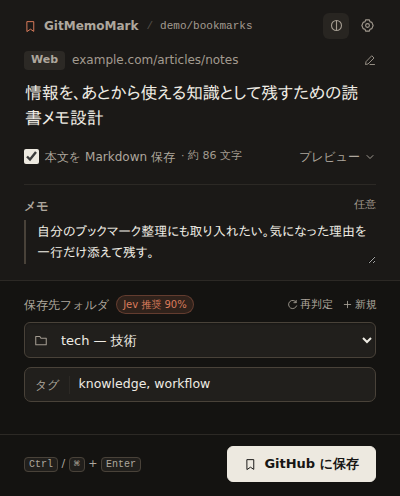
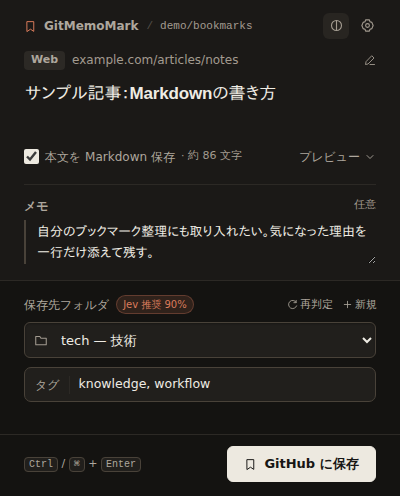
Rewrite README and clarify sample article screenshots

Changed region(s): [[0.06, 0.1512, 0.9, 0.2722]]

diff --git a/README.md b/README.md
@@ -1,65 +1,128 @@
 # GitMemoMark
 
-X のポストや Web ページを、**自分の GitHub リポジトリに Markdown として保存**する Chrome 拡張機能（Manifest V3）です。任意で [TypeSafe Jev](https://typesafe.ai/) によるフォルダ仕分けを使えます。
+X（旧 Twitter）のポストや Web ページを、**自分の GitHub リポジトリに Markdown として整理・保存**するデスクトップ Chrome 拡張機能（Manifest V3）です。フォルダ分け・メモ・タグ・一覧ファイル（`INDEX.md`）の更新に対応し、任意で [TypeSafe Jev](https://typesafe.ai/) によるフォルダ自動仕分けも利用できます。
 
-**Developer preview / 開発プレビュー。** Chrome ウェブストア公開版ではありません。データのバックアップを取り、まずテスト用の非公開リポジトリで試してください。認証済み X と実際の認証付き API 書き込みは E2E テスト未実施です。ライト／ダーク／システム追従に対応しています。開発プレビューのため表示や設定が変わる可能性があります。
+[保存画面](#保存画面) · [どう保存されるか](#どう保存されるか) · [使い方](#使い方) · [導入と初期設定](#導入と初期設定) · [フォルダ管理と自動仕分け](#フォルダ管理と自動仕分け) · [プライバシーとセキュリティ](#プライバシーとセキュリティ) · [既知の制限と検証状況](#既知の制限と検証状況) · [開発とライセンス](#開発とライセンス)
+
+> [!NOTE]
+> **開発プレビュー（v0.2.0 / Chrome ウェブストア未公開）**
+>
+> リポジトリを取得し、Chrome に「パッケージ化されていない拡張機能」として読み込んで使います（実行に Node.js やビルド作業は不要です）。認証済み X 実アカウントでの操作や、実 API への書き込みを通した E2E テストは未実施です。データのバックアップを取り、まずは**テスト用の非公開（Private）リポジトリ**でお試しください。仕様や画面は今後変更される可能性があります。
 
 ## 保存画面
 
-**Quiet Editorial（v0.2.0）**：紙色のライトテーマと墨色のダークテーマ。記事タイトルとメモを主役にし、保存先・タグを下段にまとめた保存画面です。本文プレビュー、フォルダ、メモ、タグを確認して保存できます。
+**Quiet Editorial（v0.2.0）** では、紙色のライトテーマと墨色のダークテーマを採用しています。記事タイトルと自分のメモを上段に大きく配置し、保存先フォルダやタグの整理を下段にまとめました。
 
-以下は実際の拡張画面です（記事・設定・仕分け結果はテスト用サンプル）。
+以下は実際の拡張機能の保存画面です（表示されている記事・設定・仕分け結果はテスト用のサンプルデータです）。
 
-| ライト | ダーク |
+| ライトテーマ | ダークテーマ |
+| :---: | :---: |
+| ![ライトテーマの保存画面](screenshots/release-popup-light.png) | ![ダークテーマの保存画面](screenshots/release-popup-dark.png) |
+
+- **テーマ切替**：ライト／ダーク／システム追従に対応し、設定画面または保存画面右上のボタンから切り替えられます。
+- **保存前の確認と操作**：複数行タイトルの編集、本文 Markdown 保存の ON/OFF とプレビュー確認、フォルダの新規作成がその場で行えます。保存ボタンは下部に固定され、`Ctrl+Enter`（macOS は `⌘+Enter`）でも保存できます。
+
+## どう保存されるか
+
+保存を実行すると、指定した GitHub リポジトリへ **1 件につき 1 つの Markdown ファイル**をコミットします。既定では一覧ファイル `INDEX.md` も同じコミットで更新されます。
+
+```text
+your-bookmarks-repo/
+├── INDEX.md
+├── tech/
+│   ├── 2026-11-01_example-com_サンプル記事-markdownの書き方_8f3a1c9e2b4d.md
+│   └── x_example_1850000000000000000.md
+└── _unsorted/
+```
+
+保存される `.md` ファイルには、検索や再利用がしやすいよう YAML front matter と本文が記録されます（保存画面スクリーンショットの例）。
+
+```markdown
+---
+title: "サンプル記事：Markdownの書き方"
+url: "https://example.com/articles/notes"
+source: web
+site: "example.com"
+folder: "tech"
+tags: ["knowledge", "workflow"]
+classified_by: "jev (90%)"
+saved_at: "2026-11-01T08:00:00+09:00"
+---
+
+# サンプル記事：Markdownの書き方
+
+<https://example.com/articles/notes>
+
+## メモ
+
+自分のブックマーク整理にも取り入れたい。気になった理由を一行だけ添えて残す。
+
+## 本文
+
+（抽出した記事本文の Markdown）
+```
+
+### 保存形式とデータ保護の仕様
+
+- **完全なオフライン保存ではありません**：Web ページの本文は同梱の Readability と Turndown で Markdown に変換しますが（本文保存は OFF にもできます）、画像や動画はバイナリを保存せず**主に元サイトの URL として記録**します。元ページ側の削除や構造によっては再現できません。
+- **同一パスへの上書きは行いません**：保存先パスにすでにファイルが存在する場合、**同じ URL であっても上書きせず保存を中止**します。以前に書いたメモ・タグや GitHub 上で手作業した追記を保護するためです。既存パスに別 URL や識別不能なファイルがある場合、既存ツリーや Blob を読み取れない場合も同様に中止します。追記・更新したいときは GitHub 上で編集するか、別のフォルダに保存してください。
+- **ファイル名と重複の扱い**：
+  - **Web ページ**：`日付_ドメイン_タイトル_URLのSHA-1先頭12桁.md` で保存します（ハッシュはファイル名衝突の回避用であり、暗号化ではありません）。日付・タイトル・フォルダが変わると別パスになるため、別ファイルとして保存されることがあります（リポジトリ全体での URL 重複排除ではありません）。
+  - **X ポスト**：`x_<handle>_<id>.md` で保存し、同じフォルダ内では日をまたいでも同じパスになります。なお X 画面からの即時保存では、保存成功後 10 分間は同一ポストの再保存をスキップする場合があります。
+- **`INDEX.md` の手動追記を保持**：一覧の更新時は拡張機能が付与したマーカー付きの行だけを更新し、ユーザーが自分で書き足した行は残します（旧バージョンのマーカーなし行や旧ファイル名は自動移行しないため、初回再保存で行が重複する場合があります）。
+
+## 使い方
+
+普段の使い方に合わせて、設定画面で **2 つの保存モード**を切り替えられます。
+
+- **毎回フォルダを選ぶ（既定）**：保存画面を開き、タイトル・本文プレビュー・メモ・フォルダ・タグを確認してから保存します。
+- **画面を出さずにすぐ保存**：ダイアログを開かずワンクリックで保存します。保存先は「Jev で自動仕分け」または「未仕分けフォルダ（既定 `_unsorted`）にまとめて入れる」から選べます。
+
+### 保存の呼び出し方
+
+| 操作 | 動作 |
 | --- | --- |
-| ![ライトの保存画面](screenshots/release-popup-light.png) | ![ダークの保存画面](screenshots/release-popup-dark.png) |
+| **ツールバーの拡張機能アイコン** | 現在のページを保存（設定モードに従い「保存画面」または「すぐ保存」） |
+| **X ポストの保存ボタン** | 各ポストに追加されるボタンで保存。**`Shift` + クリック**で設定に関わらず即時保存（ボタン表示は OFF 可） |
+| **X のブックマーク操作** | 設定で連動を ON にした場合、X でブックマークしたポストを「すぐ保存」のルールで GitHub にも保存（既定 OFF、ログイン時のみ） |
+| **右クリックメニュー** | ページ・選択テキスト・リンク・画像を保存。「フォルダを選ぶ」は常に保存画面、「すぐ保存」は常に即時保存 |
+| **`Alt+Shift+S`** | 現在のページをダイアログなしで即時保存（`chrome://extensions/shortcuts` で変更可） |
 
-設定画面または保存画面右上からテーマを切り替えられます。保存ボタンは下部に固定され、長い本文やエラーは枠内でスクロールします。
+## 導入と初期設定
 
-## インストール
+### 1. Chrome への読み込み（ビルド不要）
 
-Git と現在のデスクトップ版 Chrome が必要です。拡張機能の実行に Node.js やビルドは不要です。
+現在のデスクトップ版 Google Chrome が必要です。拡張機能の実行に Node.js、`npm install`、ビルド手順は不要です。
 
 ```sh
 git clone https://github.com/Aero123421/gitmemomark.git
 cd gitmemomark
 ```
 
-1. Chrome で `chrome://extensions` を開き、デベロッパーモードを ON。
-2. 「パッケージ化されていない拡張機能を読み込む」でクローンしたフォルダ（[manifest.json](manifest.json) がある場所）を選択。
-3. 拡張機能の設定画面で GitHub を設定。更新時は `git pull` 後、拡張機能を再読み込みし、X のタブも再読み込みしてください。
+1. Chrome のアドレスバーで `chrome://extensions` を開き、右上の **「デベロッパーモード」** を ON にします。
+2. **「パッケージ化されていない拡張機能を読み込む」** をクリックし、クローンしたフォルダ（[manifest.json](manifest.json) があるルートフォルダ）を選択します。
+3. 初回導入時は設定画面が開きます。
 
-## GitHub の設定
+更新するときは `git pull` を実行したあと、`chrome://extensions` で GitMemoMark の「再読み込み」を押し、開いている X のタブも再読み込みしてください。
 
-1. 保存先のリポジトリを作成（非公開を推奨）。このソースコードのリポジトリと別で構いません。
-2. [Fine-grained personal access token](https://github.com/settings/personal-access-tokens/new) を作成。
-   - Repository access: **Only select repositories** → 保存先のみ。
-   - Repository permissions: **Contents → Read and write**。
-   - 有効期限を設定し、不要になったら失効させてください。
-3. オーナー、リポジトリ、ブランチ（既定 `main`）、トークン、必要なら保存先のベースパスを入力。「接続テスト」後に「設定を保存」。
+### 2. GitHub リポジトリとトークンの設定
 
-接続テストは読み取り確認で、実際の書き込み成功を保証しません。既存リポジトリではブランチが存在することを確認してください。空リポジトリの初回保存は複数コミットとなることがあり、途中失敗の可能性があります。
+1. **保存先リポジトリを作成する**：GitHub でブックマーク保存用のリポジトリを用意します（**非公開 / Private を推奨**。本拡張機能のソースリポジトリとは別で構いません）。既存リポジトリを使う場合は、保存先ブランチ（既定 `main`）が存在することを確認してください。
+2. **Fine-grained Personal Access Token を作成する**：[GitHub のトークン作成画面](https://github.com/settings/personal-access-tokens/new)を開き、保存先リポジトリだけに絞ったトークンを発行します。
+   - **Repository access**：`Only select repositories` → **保存先リポジトリのみ**を選択
+   - **Repository permissions**：`Contents` → **Read and write**（他の権限は不要）
+   - **Expiration**：有効期限を設定（使わなくなったら GitHub 側で失効させてください）
+3. **拡張機能の設定画面に入力する**：オーナー（ユーザー名 / Organization）、リポジトリ名、ブランチ（既定 `main`）、アクセストークン、必要に応じて保存先のルートフォルダ（空欄ならリポジトリ直下）を入力し、**「接続テスト」** 後に **「設定を保存」** を押します。
 
-## 使い方
+「接続テスト」はリポジトリ情報の読み取り確認であり、実際のブランチ書き込み成功までは保証しません。設定後にテスト保存を行い、コミットが作成されることを確認してください。
 
-| 操作 | 内容 |
-| --- | --- |
-| ツールバー | 現在のページを保存（フォルダ選択、または即時保存） |
-| X のポストに追加される保存ボタン | そのポストを保存。Shift+クリックで即時保存 |
-| X のブックマーク操作 | 設定で連動を有効にした場合、GitHub にも保存 |
-| 右クリック | ページ／選択テキスト／リンク／画像を保存 |
-| `Alt+Shift+S` | 現在のページを即時保存（Chrome 側で変更可） |
+## フォルダ管理と自動仕分け
 
-- **毎回フォルダを選ぶ**：タイトル・タグ・メモ、本文プレビューを確認して保存。
-- **すぐ保存**：ダイアログなし。Jev 自動仕分け、または未仕分けへの保存を選択。
-- 保存先の優先順位は **ドメインルール → Jev（有効時）→ 未仕分け**。
-- 右クリックの「フォルダを選ぶ」は常にダイアログ、「すぐ保存」は常に即時保存。
+保存先を自動で決める場合の優先順位は **`ドメインルール` → `Jev 自動仕分け（有効時）` → `未仕分けフォルダ`** です。
 
-通常のページは同梱の Readability と Turndown で本文を Markdown に変換します。本文保存は OFF にできます。画像は主に URL として保存され、画像・動画の完全なオフラインアーカイブではありません。
+### フォルダ候補とドメインルール
 
-### フォルダと Jev（任意）
-
-既存の GitHub フォルダに加え、設定の説明欄で候補を追加できます。
+リポジトリに既にあるフォルダは自動で候補に読み込まれます。まだ空のフォルダを候補に出したい場合や、Jev にフォルダの用途を伝えたい場合は、設定画面の「フォルダと説明」に 1 行ずつ記述します。
 
 ```text
 tech: プログラミング・技術記事
@@ -67,49 +130,53 @@ tech/ai: AI・機械学習
 reading: あとで読む
 ```
 
-ドメインルール例：`example.org = reading`（サブドメインにも適用）。Jev は既定で OFF。[TypeSafe console](https://console.typesafe.ai/keys) の API キーを入力して有効にします。候補は深さ 3 階層まで、説明を優先し最大 255 個。Choice の confidence がしきい値以上、かつ Noul が 0.5 以上の場合だけ採用します。失敗・低確信度時は未仕分けになります。
+特定のサイトを常に決まったフォルダへ入れたい場合は、「ドメインルール」に `example.org = reading` のように記述します（サブドメインにも適用され、Jev より優先されます）。
 
-**重要：Jev を有効にすると、保存ボタンを押す前のポップアップ表示時にも、タイトル・URL・サイト名・説明・選択テキスト・メモ・候補フォルダと説明が送られる場合があります。キャンセルしても送信は取り消せません。** 本文／X の本文は別の「本文も Jev に送信する」を ON にした場合のみ先頭 2,000 UTF-16 単位を追加送信します。除外ドメイン設定で送信を止められます。詳細は [PRIVACY.md](PRIVACY.md)。
+### TypeSafe Jev による自動仕分け（任意・既定 OFF）
 
-## 保存形式と上書き
+Jev 自動仕分けは**既定で OFF** です。利用する場合は [TypeSafe console](https://console.typesafe.ai/keys) で API キーを取得して設定画面に入力し、「Jev の自動仕分けを使う」を ON にします（API 利用料が別途かかります）。
 
-1 件につき Markdown 1 ファイル。URL、保存日時、フォルダ、タグなどを YAML front matter に記録し、通常は一覧の `INDEX.md` と同じコミットで保存します。
+候補フォルダは深さ 3 階層まで、説明のあるフォルダを優先して最大 255 個を使用します。Choice の `confidence` が設定しきい値以上、かつ適合度（Noul）が 0.5（50%）以上の場合のみ採用し、確信度が低い場合やエラー時は未仕分けフォルダに入ります。
 
-- Web のパスは日付・ドメイン・タイトル・URL の SHA-1 先頭 12 桁を含みます。ハッシュは暗号化ではありません。
-- **同一の保存パスにファイルが存在すると、URL が一致していても上書きせず保存を中止します。** 以前の本文・メモ・タグや手作業の追記を保護します。更新は GitHub 上で編集するか、別フォルダに保存してください。
-- 同じ URL でも日付・タイトル・フォルダが変わると別ファイルになることがあります。URL 全体での重複排除ではありません。
-- X は `x_<handle>_<id>.md` で日をまたいでも同一フォルダ内では同じパス。content script の即時保存は成功後 10 分間スキップする場合があります。
-- 既存パスの URL が違う、識別できない、既存 blob／ツリーを読み取れない場合は上書きを中止します。
-- 一覧は生成済みの所有マーカー付き行だけを更新し、ユーザーが追加した行を残します。旧版のマーカーなし行は初回再保存で重複する場合があります。旧ファイル名も自動移行しません。
+> [!IMPORTANT]
+> **Jev を有効にした場合のデータ送信タイミングと範囲**
+>
+> - **保存前のポップアップ表示時にも送信されます**：Jev が ON の場合、「すぐ保存」や「再判定」時だけでなく、**保存ボタンを押す前の「保存画面を開いた時点」でも自動判定のためデータが送信される場合があります**。保存をキャンセルして画面を閉じても、送信済みのリクエストは取り消せません。
+> - **既定で送信され得る項目**：タイトル、URL、サイト名、ページ説明文、選択テキスト、メモ、候補フォルダ名と説明。
+> - **本文の送信は別の明示設定（既定 OFF）**：「本文も Jev に送信する」を別途 ON にした場合のみ、Web 本文や X ポスト本文の先頭 2,000 UTF-16 単位を追加で送信します（OFF でも上記メタデータや選択テキストの送信は行われます）。
+> - **送信の抑止**：ドメインルールに一致した場合や、「Jev に送信しないドメイン」（サブドメインも対象）に設定したサイトでは Jev へ送信しません。詳細は [PRIVACY.md](PRIVACY.md) を参照してください。
 
-## プライバシー・権限
+## プライバシーとセキュリティ
 
-保存すると、抽出本文・URL・選択テキスト・メモ等が **GitHub にコミットされます**。公開リポジトリでは公開され、削除しても Git 履歴や複製に残り得ます。著作権、サイトの利用規約、機密情報に注意してください。
+- **公開リポジトリでは保存内容も公開されます**：保存すると、抽出本文・URL（クエリパラメータを含む）・選択テキスト・メモ・フォルダ名・コミットメッセージが **GitHub にコミットされます**。公開（Public）リポジトリでは誰でも閲覧でき、後からファイルを削除しても **Git の履歴やフォーク・複製に残り得ます**。非公開リポジトリの利用を推奨するとともに、著作権・サイトの利用規約・機密情報や認証後ページの扱いに注意してください。
+- **トークンのローカル保管は暗号化保管庫ではありません**：設定、GitHub トークン、Jev API キーはブラウザ内の `chrome.storage.local` に保存され、Chrome Sync による同期は使いません（X の content script にも秘密情報は渡しません）。ただし、OS アカウントや Chrome プロファイル、拡張機能のデバッグ機能にアクセスできる環境から秘密を保護する**暗号化保管庫（vault）ではありません**。プロファイルの共有やデバッグ出力の公開は避け、漏洩の恐れがある場合は直ちに各サービス側でトークンを失効・再発行してください（拡張機能を削除しただけでは失効しません）。
+- **独自の解析・テレメトリー送信なし**：現バージョンのソース確認では、独自のアクセス解析やテレメトリー送信は含まれていません。ただし、GitHub・TypeSafe Jev への API 通信や、閲覧サイト自身・Markdown ビューアの画像読み込み等による通信は各サービス側の処理に従います。
 
-トークンと API キーは `chrome.storage.local` に保存（Chrome Sync は使用しません）。OS／Chrome プロファイルへのアクセスから秘密を保護する暗号化保管庫ではありません。現在のソース確認では独自の解析・テレメトリー送信は見つかっていませんが、GitHub・Jev や閲覧サイト自身のデータ処理は別です。
+Chrome 権限の用途・送信データの詳細・削除手順は **[PRIVACY.md](PRIVACY.md)**、脆弱性の非公開報告窓口と注意事項は **[SECURITY.md](SECURITY.md)** を参照してください。
 
-権限の用途・送信内容・削除手順は [PRIVACY.md](PRIVACY.md)、脆弱性の報告は [SECURITY.md](SECURITY.md) を参照してください。
+## 既知の制限と検証状況
 
-## 既知の制限 / 検証範囲
+- **実環境での E2E テストは未実施**：認証済み X の実アカウント操作、および実際の認証情報を使った GitHub / TypeSafe Jev への書き込み E2E テストは未実施です。同梱のモックテストはこれらを代替しません。
+- **空リポジトリ初回保存の非原子性**：通常はブックマークと `INDEX.md` を 1 コミットで保存しますが、コミットがまだ存在しない空リポジトリへの初回保存のみ複数コミット（1 ファイルずつ書き込み）となるため、途中で失敗すると一部のみ作成された状態になる可能性があります。
+- **X の DOM 変更と取得範囲**：X の画面構造は変化するため、ポスト・引用・メディア等の取得が不完全になる場合や、タイムライン表示で長文が省略される場合があります。保存前にプレビューを確認してください。また、過去の X ブックマークを一括エクスポートする機能はありません。
+- **抽出できないページ構造**：PDF、`chrome://` 等のブラウザ内部ページ、Chrome ウェブストア、`iframe` 内の本文、ログイン壁のあるページ、閉じた Shadow DOM などは本文を取得できない場合があります。
+- **本文の上限と再現性**：Web 本文の上限は 1,000〜300,000 UTF-16 単位（既定 100,000）です。上限を超える場合は開いたコードフェンスを閉じ、省略注記を含めて上限内に切り詰めます。元ページの忠実な再現は保証しません。
+- **大規模ツリー・API 制限・競合**：GitHub 上のフォルダ数が非常に多い場合はフォルダ一覧が一部取得になることがあります。また API 制限、ネットワーク障害、端末をまたぐ同時保存の競合等で保存に失敗する場合があります。
 
-- 認証済み X の実アカウント操作、GitHub／Jev の実認証付き書き込みを通した E2E テストは未実施。モックテストはこれらを代替しません。
-- X の DOM は変化します。ポスト・引用・スレッドの取得が不完全な場合があります。保存前にプレビューを確認してください。
-- PDF、ブラウザー内部ページ、ウェブストア、iframe 内の本文、ログイン壁、閉じた Shadow DOM 等は取得できない場合があります。
-- 本文上限は 1,000〜300,000 UTF-16 単位。省略注記とコードフェンスの閉じ記号を含めて切り詰めます。忠実なページ再現は保証しません。
-- GitHub の大きなフォルダ一覧は一部取得になる場合があります。API 制限・競合・ネットワーク障害で保存に失敗する場合があります。端末をまたぐ同時保存まで保証しません。
+## 開発とライセンス
 
-## 開発・テスト
+### 開発・テスト
 
-Node.js **22 以上**（22／24 を CI 対象）で、依存パッケージのインストールは不要です。
+テストの実行には **Node.js 22 以上**が必要です。依存パッケージのインストールやビルド手順は不要です。
 
 ```sh
 npm test
 ```
 
-[test suite](tests/core.test.mjs) は `node:test` を使用。URL 衝突、入力検証、YAML／URL、UTF-16 と長いコードフェンスの切り詰め、一覧のデータ保持、GitHub blob 読み取り失敗時の中止、Jev の送信範囲をローカルの合成データとモックで確認します。実 API や Chrome を起動しません。
+[tests/core.test.mjs](tests/core.test.mjs) は標準の `node:test` を使用した 22 件のテストスイートです。URL ハッシュによる衝突回避、入力検証、YAML／URL エスケープ、UTF-16 上限と長いコードフェンスの切り詰め、`INDEX.md` の手動追記保持、GitHub Blob 読み取り失敗時の保存中止と同一パス上書き拒否、Jev の送信範囲と除外ドメインを、ローカルの合成データとモック `fetch` で検証します（Chrome 実機や実 API は起動・通信しません）。GitHub Actions（[.github/workflows/test.yml](.github/workflows/test.yml)）は Node.js 22 / 24 を対象に設定されています。
 
-開発・手動確認の手順は [CONTRIBUTING.md](CONTRIBUTING.md)。
+開発手順や手動確認項目は **[CONTRIBUTING.md](CONTRIBUTING.md)**、変更履歴は **[CHANGELOG.md](CHANGELOG.md)** を参照してください。
 
-## ライセンス
+### ライセンス
 
-GitMemoMark のオリジナルコードとドキュメントは [Apache-2.0](LICENSE)。同梱ライブラリには別途 Apache-2.0／MIT の条件が適用されます。[THIRD_PARTY_NOTICES.md](THIRD_PARTY_NOTICES.md) と [NOTICE](NOTICE) を保持してください。保存する Web／X コンテンツの権利をこのライセンスが付与するものではありません。
+GitMemoMark のオリジナルコードとドキュメントは **[Apache-2.0](LICENSE)** ライセンスです。同梱しているサードパーティ製ライブラリ（Mozilla Readability / Turndown / turndown-plugin-gfm）には別途 Apache-2.0 または MIT の条件が適用されます。再配布時は **[THIRD_PARTY_NOTICES.md](THIRD_PARTY_NOTICES.md)** と **[NOTICE](NOTICE)** を保持してください。なお、本ライセンスは保存対象となる Web／X コンテンツの権利を付与するものではありません。
